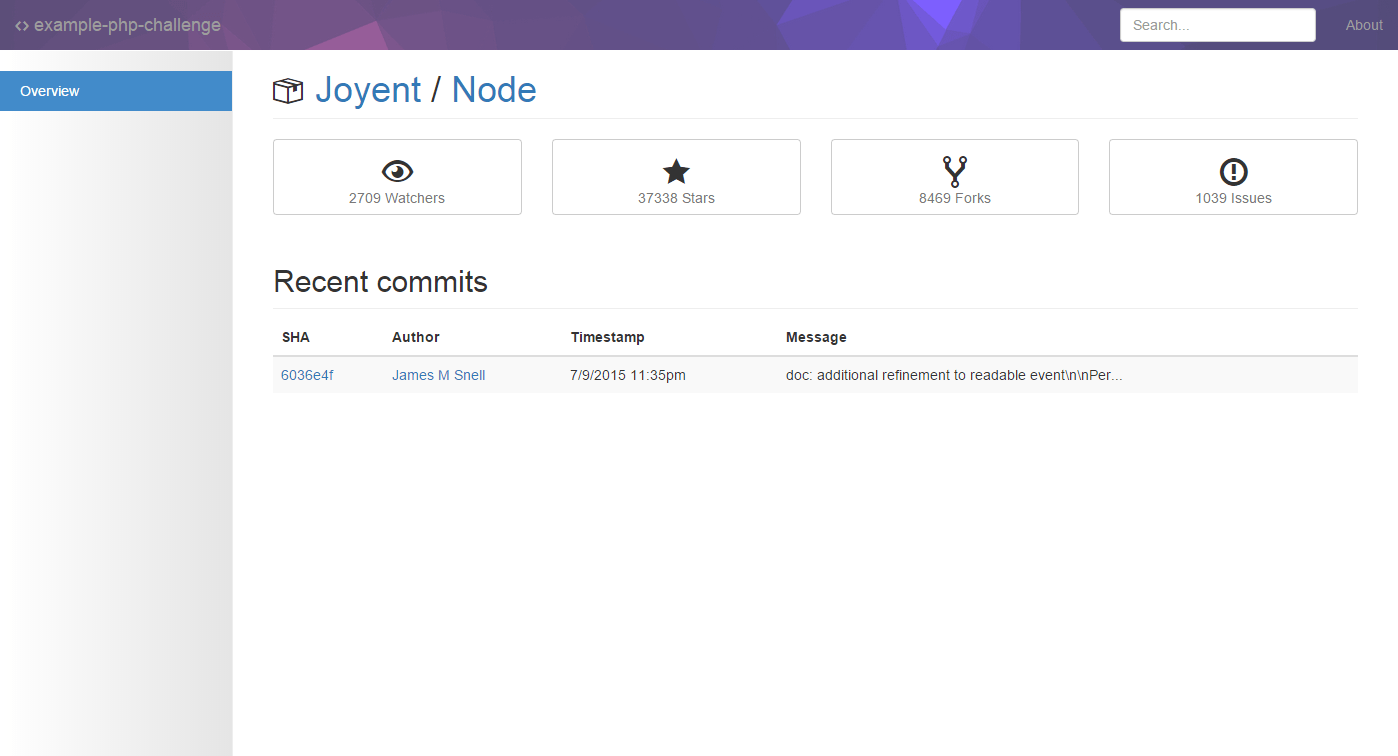
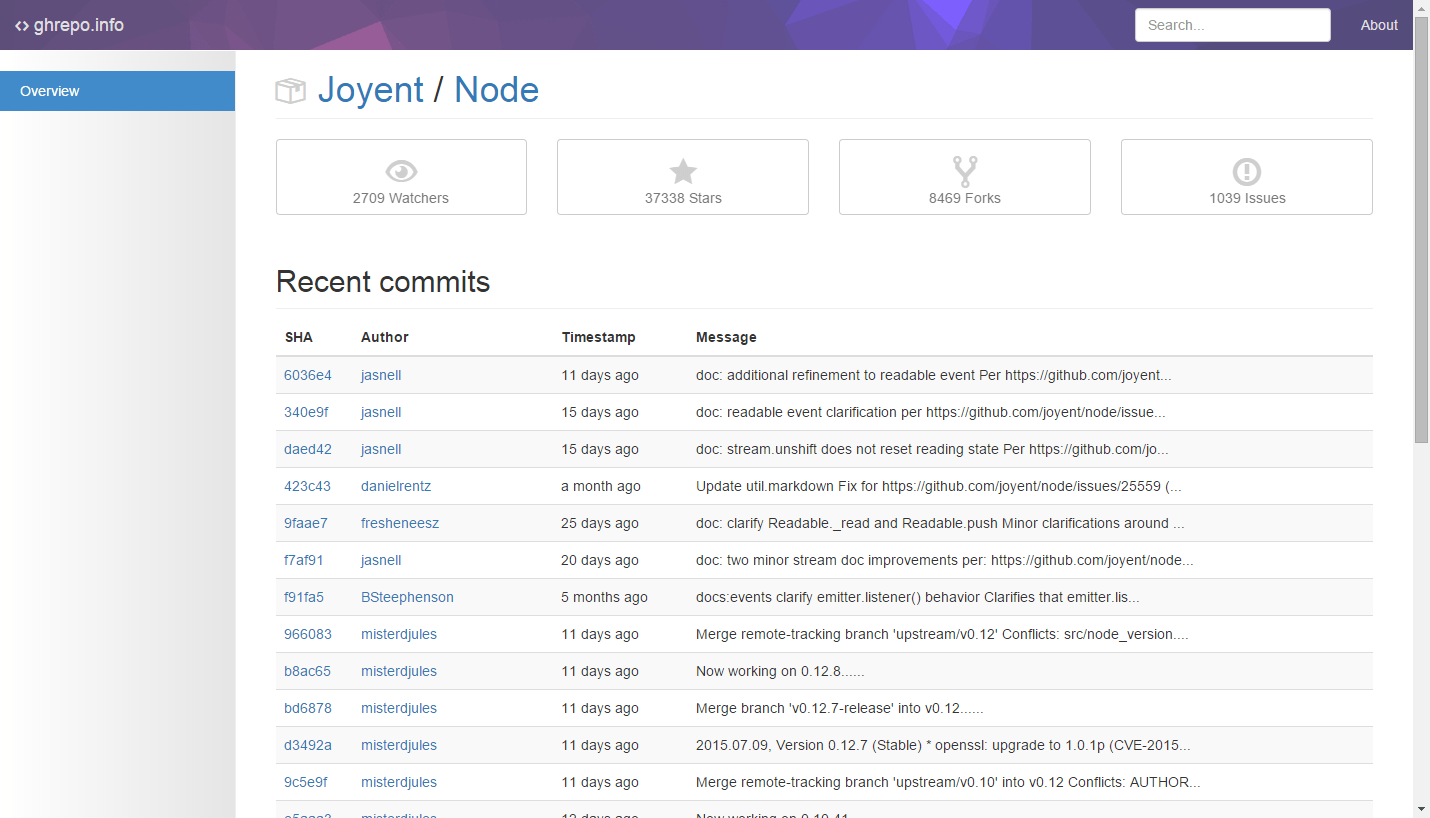
Updates the screenshot, adds a jQuery badge to the README, and updates the README text to be a bit more focused.

diff --git a/README.md b/README.md
@@ -1,14 +1,17 @@
-# example-php-challenge
+# ghrepo.info
 
-A take on [Picmonic/example-php-challenge](https://github.com/Picmonic/example-php-challenge) done by @[C1V0](https://www.twitter.com/c1v0). An example CakePHP app which displays the most recent commits to a repository.
+A project inspired by [Picmonic/example-php-challenge](https://github.com/Picmonic/example-php-challenge). Queries the GitHub API to pull, store, and display repository information. Specifically the recent commits, for now. Created by @[C1V0](https://www.twitter.com/c1v0).
+
+Preview the design live at [ghrepo.info](http://ghrepo.info).
 
 ### Resources
 
-Learn more about the original instructions for this project in [INSTRUCTIONS.md](INSTRUCTIONS.md). A [Developer Notes](https://github.com/chrisvogt/example-php-challenge/wiki/Developer-Notes) wiki page has been created to provide a technical overview for this project.
+Review the original instructions for this challenge in [INSTRUCTIONS.md](INSTRUCTIONS.md).
 
-You may also wish to [preview the static template](http://chrisvogt.github.io/example-php-challenge/static/) live on GitHub Pages.
+A [Developer Notes](https://github.com/chrisvogt/example-php-challenge/wiki/Developer-Notes) wiki page has also been created to provide a technical summary.
 
 ### Screenshot
+
 [![Project Directory](screenshot.png)](http://chrisvogt.github.io/example-php-challenge/static/)
 
 ### License
@@ -17,4 +20,4 @@ You may also wish to [preview the static template](http://chrisvogt.github.io/ex
 
 ___
 
-<img src="https://cdn.rawgit.com/jekyll/brand/master/jekyll-logo-light-transparent.png" alt="Jekyll logo" height="70" align="right"> <img src="http://bower.io/img/bower-logo.svg" alt="Made with Bower" height="70" align="right"> <img src="https://upload.wikimedia.org/wikipedia/commons/2/26/Logo-composer-transparent.png" alt="Made with Composer" height="70" align="right"> <img src="https://cdn.rawgit.com/chrisvogt/wowchar-info/master/webroot/img/cake-logo-smaller.png" alt="Made with CakePHP" height="70" align="right"> <img src="https://cdn.rawgit.com/chrisvogt/wowchar-info/master/webroot/img/php-med-trans.png" alt="Made with PHP" height="70" align="right">
+<img src="http://upload.wikimedia.org/wikipedia/en/9/9e/JQuery_logo.svg" alt="Made with jQuery" height="70" align="right"> <img src="http://bower.io/img/bower-logo.svg" alt="Made with Bower" height="70" align="right"> <img src="https://upload.wikimedia.org/wikipedia/commons/2/26/Logo-composer-transparent.png" alt="Made with Composer" height="70" align="right"> <img src="https://cdn.rawgit.com/chrisvogt/wowchar-info/master/webroot/img/cake-logo-smaller.png" alt="Made with CakePHP" height="70" align="right"> <img src="https://cdn.rawgit.com/chrisvogt/wowchar-info/master/webroot/img/php-med-trans.png" alt="Made with PHP" height="70" align="right">
